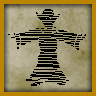
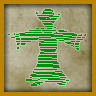
New spell: phase!

Changed region(s): [[0.0625, 0.0625, 0.9062, 0.9062]]

diff --git a/wizard_wars/wizard_wars.js b/wizard_wars/wizard_wars.js
@@ -82,7 +82,7 @@
 
 
 
-import { Card, Collectable, EffectTimerFreeze, Hazard, Monster, MonsterMovementBehavior, Mover, Obstacle, Portal, SpecialEffectDeath, SpecialEffectDescend, SpecialEffectFreeze, SpecialEffectRandomize, ImageDisplayEntity, Wizard, SpecialEffectScoreDisplay, MonsterType, SpecialEffectPrecognition, TemporaryEntity } from './entity.js';
+import { Card, Collectable, EffectTimerFreeze, Hazard, Monster, MonsterMovementBehavior, Mover, Obstacle, Portal, SpecialEffectDeath, SpecialEffectDescend, SpecialEffectFreeze, SpecialEffectRandomize, ImageDisplayEntity, Wizard, SpecialEffectScoreDisplay, MonsterType, SpecialEffectPrecognition, TemporaryEntity, SpecialEffectPhase, EffectTimerPhase } from './entity.js';
 import { AssetLoader, ImageAsset, SoundAsset } from './AssetLoader.js';
 
 const debugOutput = false;
@@ -174,7 +174,8 @@ var gameState = GameState.LOAD_START;
 const SpellAction = Object.freeze({
     SPELL_FREEZE: "SPELL_FREEZE",
     SPELL_RANDOMIZE: "SPELL_RANDOMIZE",
-    SPELL_PRECOGNITION: "SPELL_PRECOGNITION"
+    SPELL_PRECOGNITION: "SPELL_PRECOGNITION",
+    SPELL_PHASE: "SPELL_PHASE"
 });
 
 
@@ -477,9 +478,11 @@ function createBoardForLevel(newLevel) {
     // Add cards
     let imageSize = 96;
     let gap = 16;
-    cards.push(new Card(0, 640 + gap, SpellAction.SPELL_FREEZE, assetLoader.getImage(ImageAsset.CARD_SPELL_FREEZE)));
-    cards.push(new Card(imageSize + gap, 640 + gap, SpellAction.SPELL_RANDOMIZE, assetLoader.getImage(ImageAsset.CARD_SPELL_RANDOMIZE)));
-    cards.push(new Card(imageSize + gap + imageSize + gap, 640 + gap, SpellAction.SPELL_PRECOGNITION, assetLoader.getImage(ImageAsset.CARD_SPELL_PRECOGNITION)));
+    cards.push(new Card(0 * (imageSize + gap), 640 + gap, SpellAction.SPELL_FREEZE, assetLoader.getImage(ImageAsset.CARD_SPELL_FREEZE)));
+    cards.push(new Card(1 * (imageSize + gap), 640 + gap, SpellAction.SPELL_RANDOMIZE, assetLoader.getImage(ImageAsset.CARD_SPELL_RANDOMIZE)));
+    cards.push(new Card(2 * (imageSize + gap), 640 + gap, SpellAction.SPELL_PRECOGNITION, assetLoader.getImage(ImageAsset.CARD_SPELL_PRECOGNITION)));
+    cards.push(new Card(3 * (imageSize + gap), 640 + gap, SpellAction.SPELL_PHASE, assetLoader.getImage(ImageAsset.CARD_SPELL_PHASE)));
+
 
     renderBackground(context);
 
@@ -649,6 +652,12 @@ function processCardAction(card) {
                 new SpecialEffectPrecognition(mapWidth, mapHeight)
             );
             break;
+
+        case SpellAction.SPELL_PHASE:
+            specialEffects.push(new SpecialEffectPhase(mapWidth, mapHeight));
+            playerWizard.isPhasedOut = true;
+            effects.push(new EffectTimerPhase(card.action, 2, playerWizard));
+            break;
     }
 
     spellsCastLifetime++;
@@ -764,7 +773,7 @@ function update() {
 
         // Consume the collectables
         collectables
-            .filter(item => item.isCollected == false)
+            .filter(item => item.isCollected == false && playerWizard.isPhasedOut == false)
             .forEach(item => {
                 if (isWithinCollisionDistance(playerWizard, item, 0)) {
                     item.isCollected = true;
@@ -1106,7 +1115,7 @@ function checkIsValidMove(entity, destinationX, destinationY) {
         return !isClear.includes(true) && inBounds;
 
     } else {
-        var isUnobstruced = checkUnobstructed(destinationX, destinationY);
+        var isUnobstruced = checkUnobstructed(destinationX, destinationY) || playerWizard.isPhasedOut;
         return isUnobstruced && inBounds;
     }
 }
@@ -1119,7 +1128,6 @@ function checkInBounds(destinationX, destinationY) {
 
 function checkUnobstructed(destinationX, destinationY) {
     var isObstructed = obstacles.map(obstacle => {
-        //console.log(`OBSTRUCTED ${obstacle.x} : ${(destinationX == obstacle.x) && (destinationY == obstacle.y)}`)
         return (destinationX == obstacle.x) && (destinationY == obstacle.y)
     });
     return !isObstructed.includes(true);
@@ -1127,7 +1135,7 @@ function checkUnobstructed(destinationX, destinationY) {
 
 function getFatalEntity(source, potentials) {
     var fatalEntities = potentials.map((entity) => {
-        if ((source !== entity) && (entity.isLethal == true) && (isWithinCollisionDistance(source, entity, 0))) {
+        if ((source !== entity) && (entity.isLethal == true) && (isWithinCollisionDistance(source, entity, 0)) && !playerWizard.isPhasedOut ) {
             return entity;
         };
     });

diff --git a/wizard_wars/entity.js b/wizard_wars/entity.js
@@ -50,9 +50,24 @@ export class ImageDisplayEntity extends Entity {
 }
 
 export class Wizard extends Entity {
+
+    isPhasedOut = false;
+
     constructor(id, x, y, image) {
         super(id, x, y);
         this.image = image;
+    }
+
+    render(context) {
+        if (this.isPhasedOut) {
+            var offset = Math.floor(Math.random() * 3) + 1;
+            context.globalAlpha = 0.25;
+            context.drawImage(this.image, this.x + offset, this.y);
+            context.drawImage(this.image, this.x - offset, this.y);
+            context.globalAlpha = 1.0;
+        } else {
+            super.render(context);
+        }
     }
 }
 
@@ -182,7 +197,7 @@ class EffectTimer {
 
 /**
  * Effect Timer: Freeze
- * Used in the "bind/freeze" spell effect. Let's the game engine know that the monsters
+ * Used in the "bind/freeze" spell effect. Lets the game engine know that the monsters
  * should not move for a period of time.
  */
 export class EffectTimerFreeze extends EffectTimer {
@@ -208,6 +223,29 @@ export class EffectTimerFreeze extends EffectTimer {
         });
 
         context.globalAlpha = 1.0;
+    }
+}
+
+/**
+ * Effect Timer: Phase
+ * Used in the phase" spell effect. Lets the game engine know that the
+ * wizard is out-of-phase.
+ */
+export class EffectTimerPhase extends EffectTimer {
+
+    isAlive = true;
+
+    constructor(effectType, cycles, wizard) {
+        super(effectType, cycles);
+        this.wizard = wizard;
+    }
+
+    update() {
+        this.cycles--;
+        if (this.cycles <= 0) {
+            this.isAlive = false;
+            this.wizard.isPhasedOut = false;
+        }
     }
 }
 
@@ -307,6 +345,26 @@ export class SpecialEffectPrecognition {
 
             context.globalAlpha = this.opacityLevel;
             context.fillStyle = "white";
+            context.fillRect(0, 0, this.canvasWidth, this.canvasHeight);
+            context.globalAlpha = 1.0;
+        }
+    }
+}
+
+export class SpecialEffectPhase {
+
+    opacityLevel = 1.0;
+
+    constructor(canvasWidth, canvasHeight) {
+        this.canvasWidth = canvasWidth;
+        this.canvasHeight = canvasHeight;
+    }
+
+    render(context) {
+        if (this.opacityLevel > 0.01) {
+            this.opacityLevel = this.opacityLevel - 0.01;
+            context.globalAlpha = this.opacityLevel;
+            context.fillStyle = "green";
             context.fillRect(0, 0, this.canvasWidth, this.canvasHeight);
             context.globalAlpha = 1.0;
         }

diff --git a/wizard_wars/AssetLoader.js b/wizard_wars/AssetLoader.js
@@ -74,6 +74,7 @@ export var ImageAsset = Object.freeze({
     CARD_SPELL_FREEZE: "resources/cards/96x96/spell_freeze.png",
     CARD_SPELL_RANDOMIZE: "resources/cards/96x96/spell_randomize.png",
     CARD_SPELL_PRECOGNITION: "resources/cards/96x96/spell_precognition.png",
+    CARD_SPELL_PHASE: "resources/cards/96x96/spell_phase.png",
 
     TILE_MARBLE_GROUND_1: "resources/tiles/64x64/tile_385.png",
     TILE_MARBLE_GROUND_2: "resources/tiles/64x64/tile_386.png",
